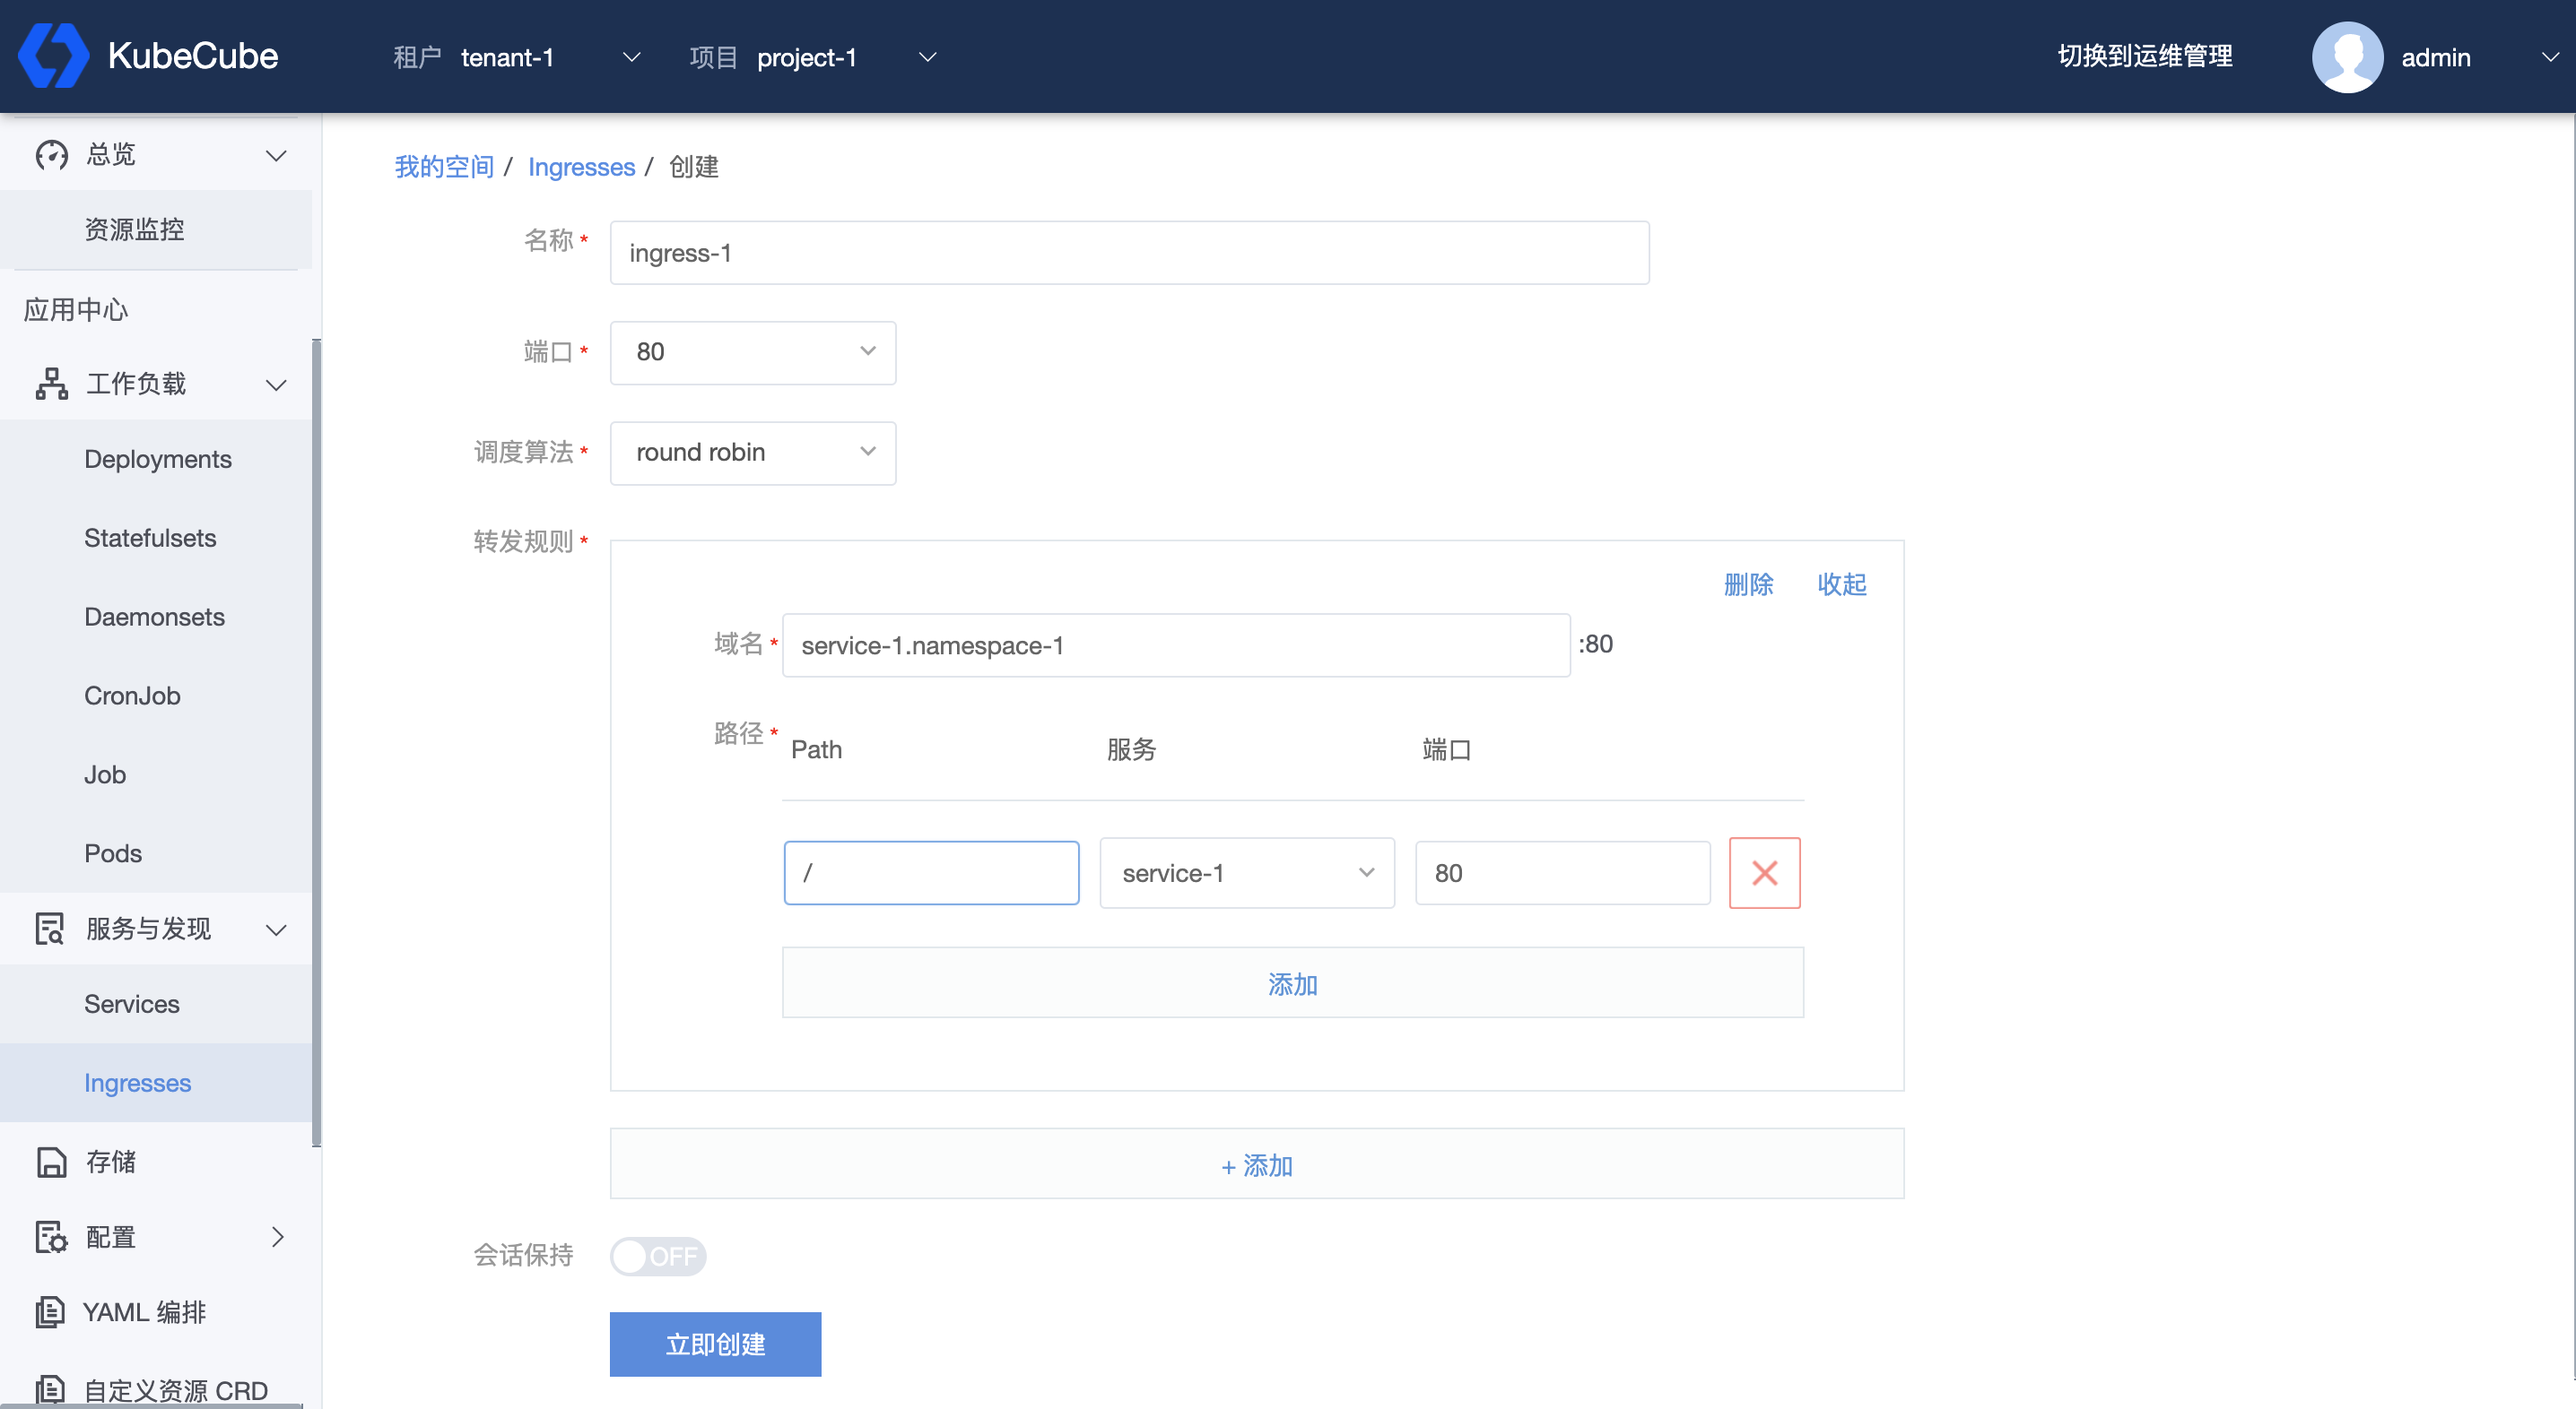
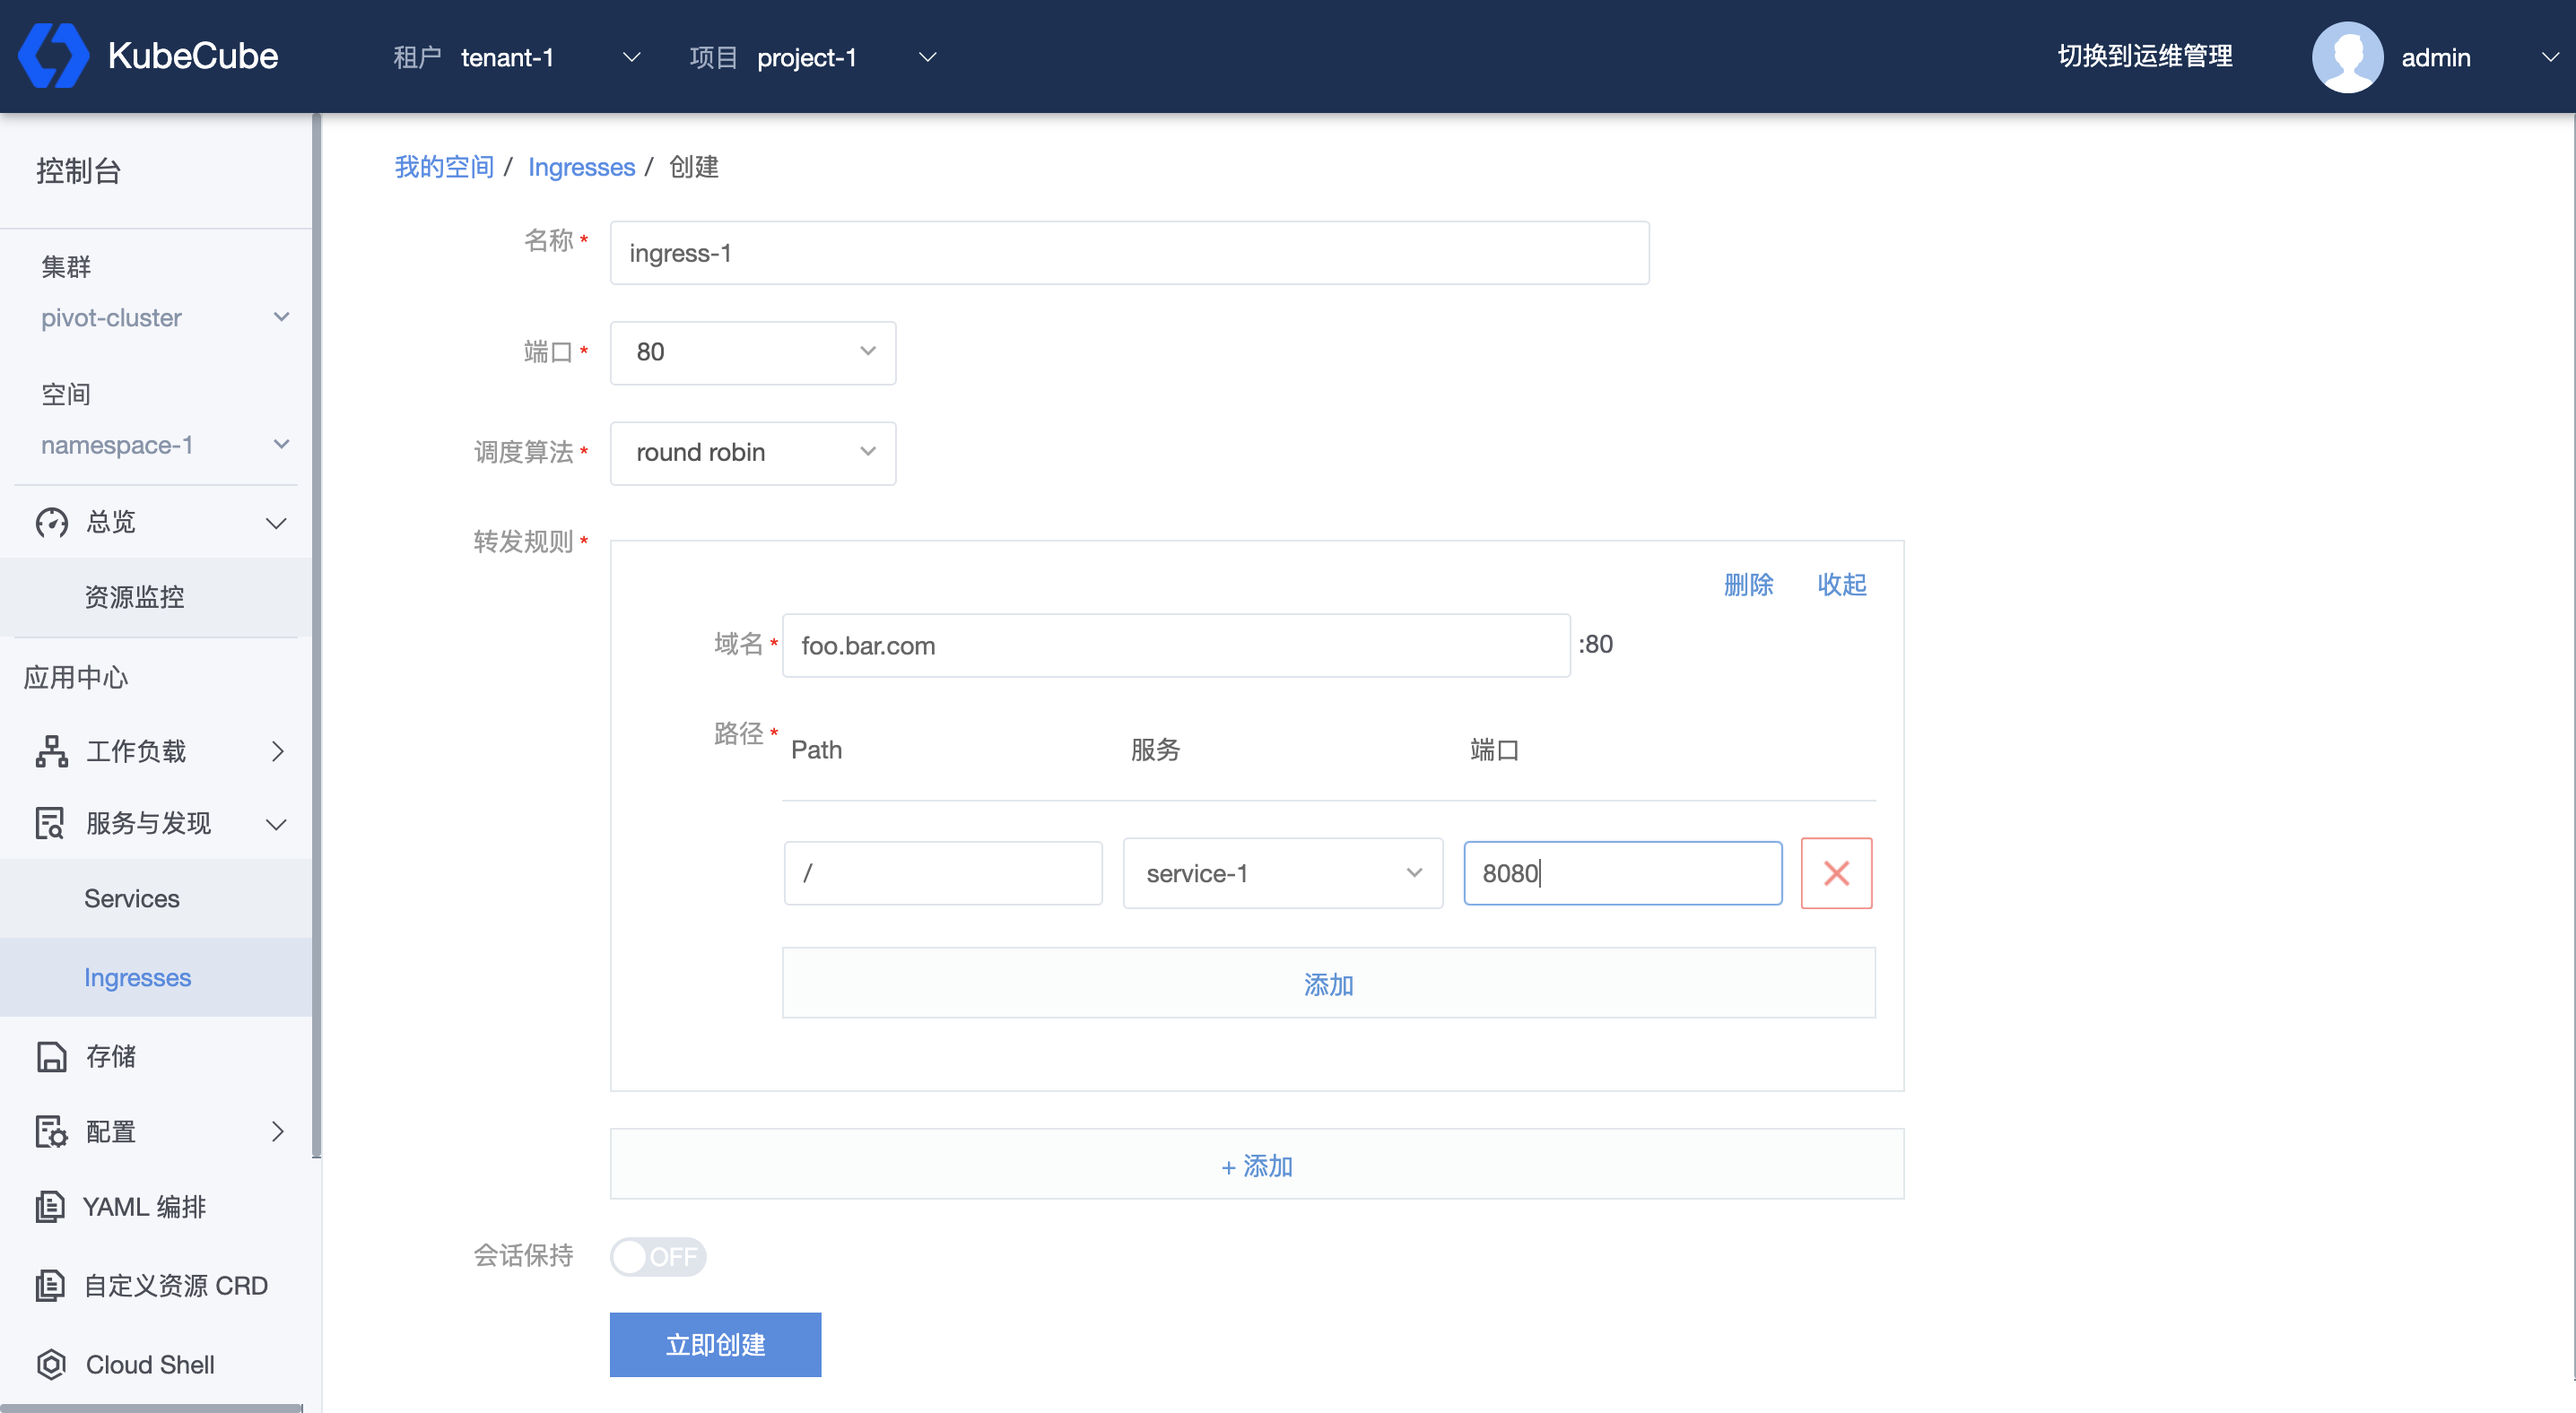
fix quick experience

diff --git a/content/zh/docs/quick-start/quick-experience.md b/content/zh/docs/quick-start/quick-experience.md
@@ -18,7 +18,7 @@ weight: 2
 
 ![create-tenant](/imgs/quick-start/quick-experience/create-tenant.png)
 
-详细配置说明见 【产品使用指南】-【运维管理】- 【租户管理】。
+详细配置说明见 [租户管理](https://www.kubecube.io/docs/user-guide/administration/tenant/) 。
 
 点击【创建】，如图，即创建了租户："tenant-1"。
 
@@ -31,7 +31,7 @@ weight: 2
 
 ![tenant-quota](/imgs/quick-start/quick-experience/tenant-quota.png)
 
-详细配置说明见 【产品使用指南】-【运维管理】- 【配额管理】。
+详细配置说明见 [配额管理](https://www.kubecube.io/docs/user-guide/administration/quota/) 。
 
 点击【创建】，即完成该租户的配额设置。
 
@@ -48,7 +48,7 @@ weight: 2
 
 ![create-project](/imgs/quick-start/quick-experience/create-project.png)
 
-详细配置说明见 【产品使用指南】-【运维管理】- 【租户管理】-【项目管理】。
+详细配置说明见 [租户管理](https://www.kubecube.io/docs/user-guide/administration/tenant/) -【项目管理】。
 
 点击【创建】，如图，即在租户 "tenant-1" 下创建了项目："project-1"。
 
@@ -56,7 +56,7 @@ weight: 2
 
 选择租户和项目，将用户添加到租户或项目中，并给其分配角色。
 
-详细配置说明见 【产品使用指南】-【运维管理】- 【租户管理】-【成员管理】。
+详细配置说明见 [租户管理](https://www.kubecube.io/docs/user-guide/administration/tenant/) -【成员管理】。
 
 ![add-project-member](/imgs/quick-start/quick-experience/add-project-member.png)
 
@@ -66,7 +66,7 @@ weight: 2
 
 选择集群、租户和项目，填写空间名称以及资源配额，点击【创建】。
 
-详细配置说明见 【产品使用指南】-【运维管理】- 【K8s集群管理】-【空间管理】。
+详细配置说明见 [配额管理](https://www.kubecube.io/docs/user-guide/administration/quota/) 中的【空间管理】。
 
 ![create-namespace](/imgs/quick-start/quick-experience/create-namespace.png)
 
@@ -88,13 +88,13 @@ weight: 2
 
 ![create-namespace](/imgs/quick-start/quick-experience/create-deploy-3.png)
 
-上图展示的示例为，创建一个副本数为1的 Deployment：“deploy-1”。
+上图展示的示例为，创建一个副本数为1的 Deployment：“deploy-1”， 容器中的镜像为：hub.c.163.com/ncepri/skiff-ncs-demo:v7。
 
 创建成功后结果如下：
 
 ![deploy-manage](/imgs/user-guide/ns-scoped-res/workload/Deployment/deploy-manage.png)
 
-详细配置说明见 【产品使用指南】-【K8s资源管理】- 【工作负载管理】-【Deployment】。
+详细配置说明见 [Deployment管理](https://www.kubecube.io/docs/user-guide/ns-scoped-res/workload/deployment/) 。
 
 ### 创建 Service
 
@@ -104,7 +104,7 @@ weight: 2
 
 ![create-service](/imgs/quick-start/quick-experience/create-service.png)
 
-详细配置说明见 【产品使用指南】-【K8s资源管理】- 【服务与发现】-【Service】。
+详细配置说明见 [Service管理](https://www.kubecube.io/docs/user-guide/ns-scoped-res/service-discovery/service/) 。
 
 ### 创建Ingress
 
@@ -114,4 +114,10 @@ weight: 2
 
 ![create-ingress](/imgs/quick-start/quick-experience/create-ingress.png)
 
-详细配置说明见 【产品使用指南】-【K8s资源管理】- 【服务与发现】-【Ingress】。
+详细配置说明见 [Ingress管理](https://www.kubecube.io/docs/user-guide/ns-scoped-res/service-discovery/ingress/) 。
+
+在本地访问镜像中接口：
+
+`curl -H 'Host:foo.bar.com' {部署ingress节点IP}/healthz`, 则会返回以下结果，说明以上内容部署成功：
+
+![create-ingress](/imgs/quick-start/quick-experience/create-ingress-2.png)
